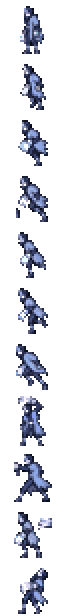
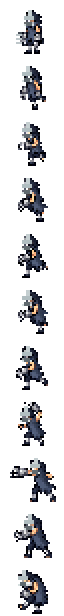
Demon Brothers v2 sprites

Changed region(s): [[0.1562, 0.0, 0.875, 1.0]]

diff --git a/art/deliveries/demon-brothers-v2/DELIVERY.md b/art/deliveries/demon-brothers-v2/DELIVERY.md
@@ -1,0 +1,39 @@
+# Demon Brothers v2 delivery
+
+- status: delivered
+- request ID: `demon-brothers-v2`
+
+## Delivered files
+
+| Path | Dimensions | Alpha |
+| --- | ---: | --- |
+| `source/Gozu_Actions.png` | 2816 × 208; 11 cells of 256 × 208 | Transparent; alpha 0 or 255 only |
+| `source/Meizu_Actions.png` | 2816 × 208; 11 cells of 256 × 208 | Transparent; alpha 0 or 255 only |
+| `source/Chain_Segment.png` | 48 × 24 | Transparent; alpha 0 or 255 only |
+| `source/generated_Gozu_Actions.png` | 2171 × 724 | Transparent generated source; includes intermediate alpha |
+| `source/generated_Meizu_Actions.png` | 2171 × 724 | Transparent generated source; includes intermediate alpha |
+| `source/generated_Chain_Segment.png` | 1774 × 887 | Transparent generated source; includes intermediate alpha |
+
+## Pose order
+
+Both action sheets use the same left-to-right order: Idle, Run 1–6, Swipe windup, Swipe extension, Swipe recovery, Hurt. Frame 0 is the idle size reference. All frames face right. Code should draw the connecting chain separately, using the gauntlet ring and `Chain_Segment.png`.
+
+## Prompt summary
+
+Built-in `image_gen__imagegen` generated separate transparent pixel-art action strips for gray-blue Gōzu and gray-green Meizu, using the named Zabuza, Haku, and Kakashi images as style references. Prompts required distinct cloaks, a horned Mist forehead plate, two-filter respirator, one three-claw metal gauntlet on opposite hands, six running poses, three swipe poses, and a hurt pose. A third built-in generation produced a repeatable iron chain section. Generated poses were isolated, reduced to the 32 × 26 art-pixel grid, brightened, and given explicit art-pixel highlights for the forehead plate, horn, and respirator before 8× enlargement.
+
+## Checks performed
+
+- Inspected all three generated images and the final action sheets and chain visually.
+- Confirmed 11 nonoverlapping frames per character, identical 256 × 208 cell dimensions, right-facing direction, and a common foot baseline.
+- Confirmed every final frame has at least two transparent art pixels along all four cell edges; removed isolated generated specks, including one detached pixel in Meizu Run 4.
+- Confirmed final images have binary alpha and constant RGBA within every 8 × 8 screen-pixel block.
+- Confirmed the chain segment is 6 × 3 art pixels and its left/right edges match for horizontal tiling.
+
+The request simultaneously specifies 24 art-pixel visible height and two empty art pixels at both top and bottom of a 26-pixel-high cell. Those dimensions are incompatible. The final frames use 22 visible art pixels, preserving the requested two-pixel clearance and fixed cell size.
+
+## Remaining game-side checks
+
+- Import the sheets and inspect actual in-game scale and visibility in rain and fog, especially the horn, respirator filters, and three claws.
+- Play each run and swipe sequence to verify timing, loop continuity, hitbox alignment, and chain-ring placement.
+- Confirm the chain tiles cleanly between both moving gauntlets in game.

diff --git a/specs/M1_波之国下忍篇.spec.md b/specs/M1_波之国下忍篇.spec.md
@@ -107,7 +107,7 @@
 2. **海边迷雾**：沿地表探索，遭遇雾隐侦察兵，收集**雾隐标记**；海雾把玩家引向大桥。
 3. **鬼之兄弟**：首次取得雾隐标记后，雨天或海雾中、地表上可能出现精英敌人鬼之兄弟（一对，锁链相连，夹击），击败必掉 2 枚雾隐标记与少量钱币，提示“任务等级上调为 A 级”（每个世界一次）。
    - 行为（2026-09-29 Claude 初版，待用户确认；规则见 `Common/DemonBrotherRules.cs`）：伽乌斯守玩家左侧、美伊兹守右侧；近身挥爪（20 帧前摇）；**锁链横扫**：每约 5 秒、玩家处于二人之间时，锁链闪红预警 36 帧，随后二人相向冲过、锁链扫过玩家（22 伤害，可跳跃或替身躲开）；一人倒下后另一人暴走加速 1.45 倍。各 220 生命。独有掉落待与用户讨论。
-   - 美术：v1 美伊兹格子越界且整体太暗，已请求 `demon-brothers-v2`；当前美伊兹暂用伽乌斯的图改绿色。
+   - 美术：`demon-brothers-v2`（v1 美伊兹格子越界且整体太暗，未采用）。
 4. **迷雾预告**：第一次踏上大桥时触发（见上）。
 5. **大桥决战**：在工作台制作**再不斩挑战卷轴**（可重复使用，丢失可再做）。卷轴任何地方可用；在大桥附近使用有海雾与专属开场白。两人都击败才算通关：记录波之国完成，大桥完工、雾散，达兹纳入住，开放中忍考试（M2），手册暗示死亡森林。
 

diff --git a/art/requests/demon-brothers-v2.md b/art/requests/demon-brothers-v2.md
@@ -1,6 +1,6 @@
 # 素材请求：demon-brothers-v2
 
-- 状态：requested
+- 状态：delivered，已接入
 - 提出者及提交号：Claude Code，M1 阶段 5（精英敌人鬼之兄弟），基于 `0d4533e`
 - **v1 的问题（Claude 审图）**：
   1. 美伊兹那张好几个姿势**跨过了格子边界**（身体一部分落在相邻格里），还有大量零星绿色杂点；按固定格切割会切碎人物。
